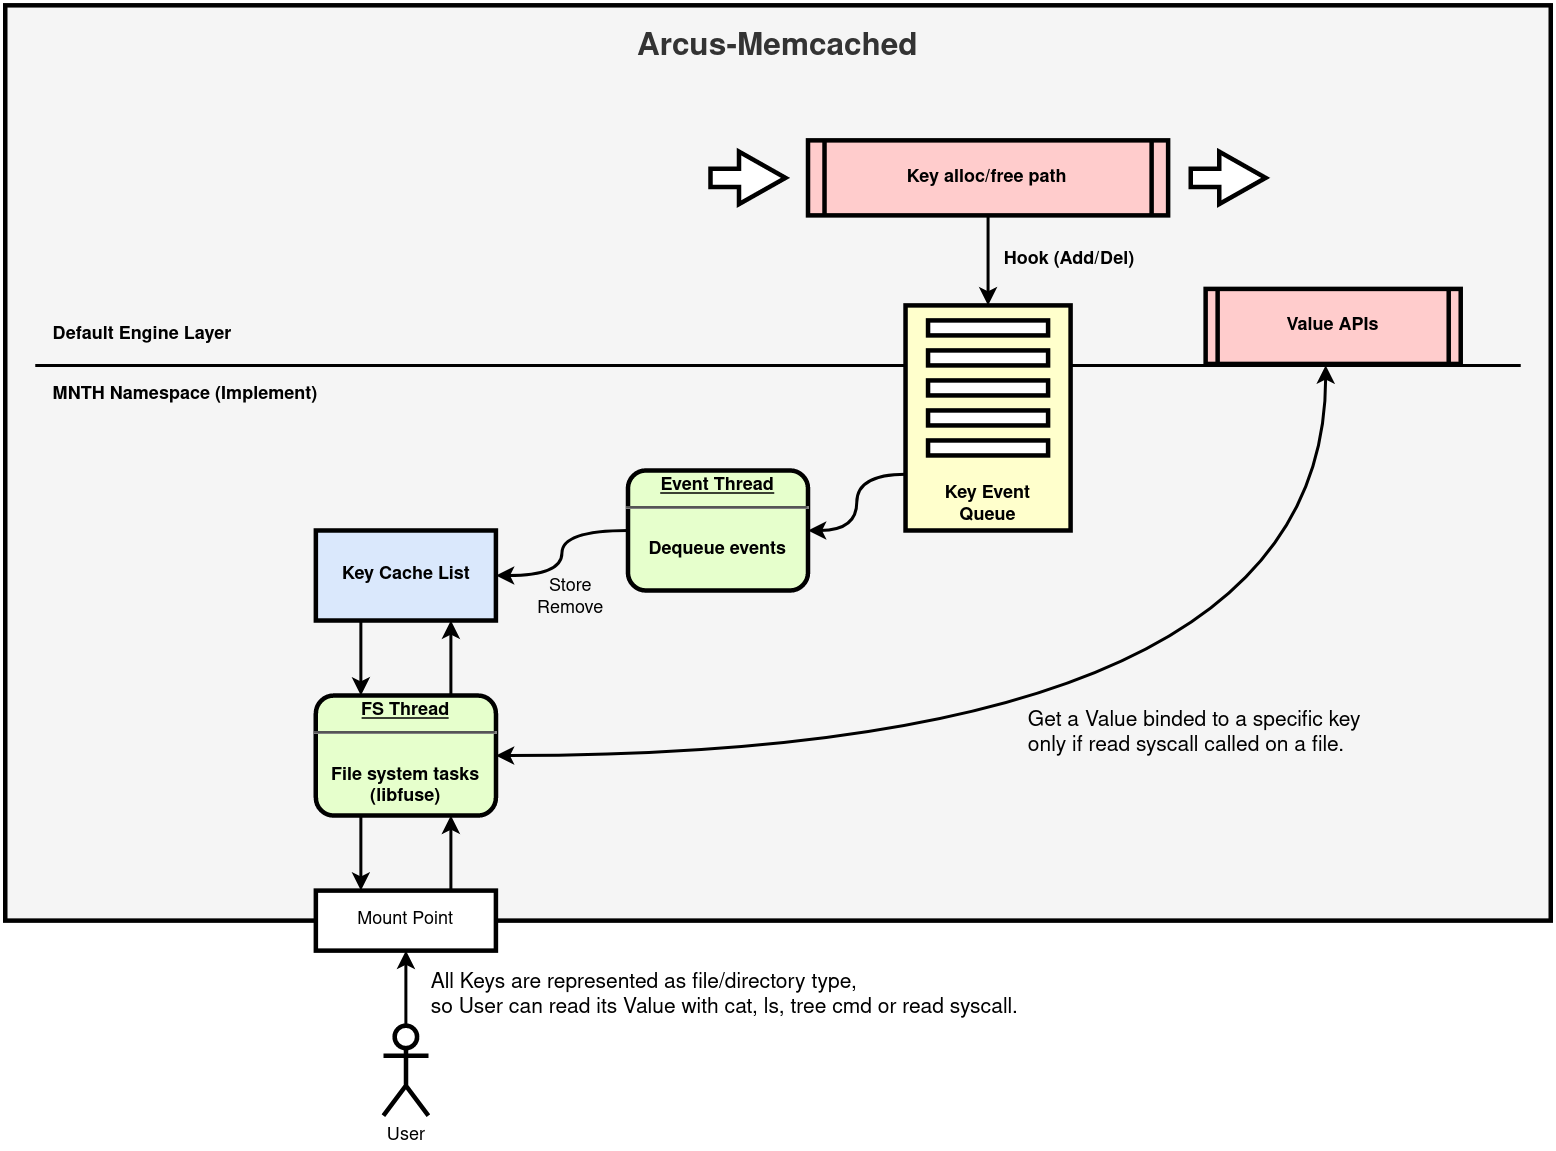
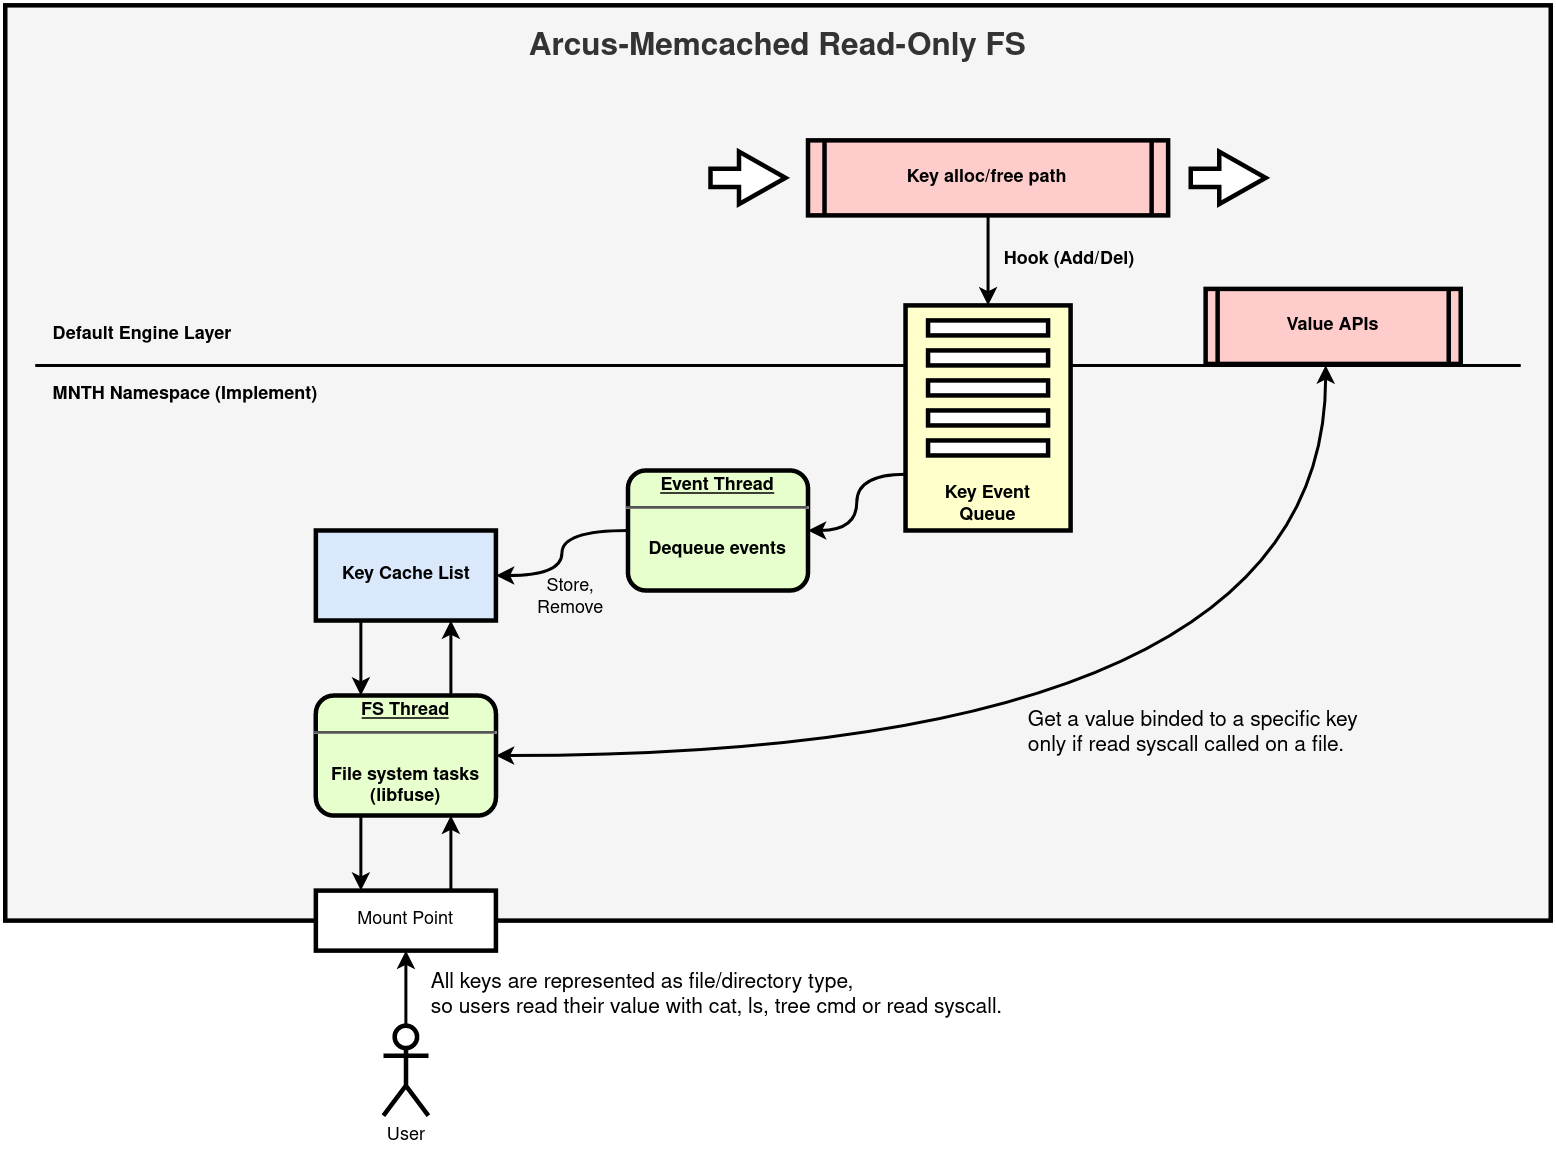
mnth-fs: update README.md

diff --git a/mnth/README.md b/mnth/README.md
@@ -1,0 +1,22 @@
+# Arcus-Memcached Read-Only FS
+It is my toy project based on [arcus-memcached](https://github.com/naver/arcus-memcached) and [libfuse](https://github.com/libfuse/libfuse) for 2020 Contributhon (It's like GSoC).
+
+### What is arcus-memcached?
+It was born from memcached. But *Jam2In*, a company, customized the original one to support their own data structures, list, b+tree, map, and optimized. So basically, it is a NoSQL key-value in-memory cache server, but has different characteristics.
+
+### libfuse?
+It's a user-space file system framework. You may ask "what's the purpose of it?". Imagine that you want to build your own fs on your system. Without it, you are supposed to write down kernel side code, for instances, ready to kernel module, domain knowledge of fs interface, memory strategy, and so on. That'd take over a year to build a just prototype, moreover you may have to learn C language. libfuse takes all the things responsible for fs tasks inside the kernel. The only things you have to deal with are looking up the language interfaces and put your ideas on the code.
+
+### arcus-memcached + libfuse?
+I had an idea what if key-value pairs stored in the server could be read by POSIX `read` syscall but also using command-line tools, `ls`, `cat`, and so forth. That was where this project came.
+
+# Architecture
+![architecture-diagram](./resources/architecture-diagram.png)
+Here are a few constraints to fulfill this project as the diagram,
+1. The keys represented as files must have only `read` permission to ensure that all values binded to the keys are in good condition. *Not dirty*.
+2. Use event queue mechanism not to get threads of default engine stuck in waiting for synchronous tasks such as lookup.
+
+Once the server has made a mount point at a specific directory, all keys in the server are represented as files or directories only if they are for list data. After that, users can access and read values, they are data mapped to keys, with `cat`, `ls`, `tree`. Moreover, most programs can get the data through `read` syscall.
+
+# A behind story
+I had attended the *Contributhon* two times for the last 4 years and this was the 3rd chance. At the beginning of the event, I wished to have different experiences compared to these years. Not just follow mentors and not just fill Pull Requests, but prefer to put something I didn't ever know together and into reality. It'd be good for me to smash the frame of my brain and see how both technologies work in detail.
